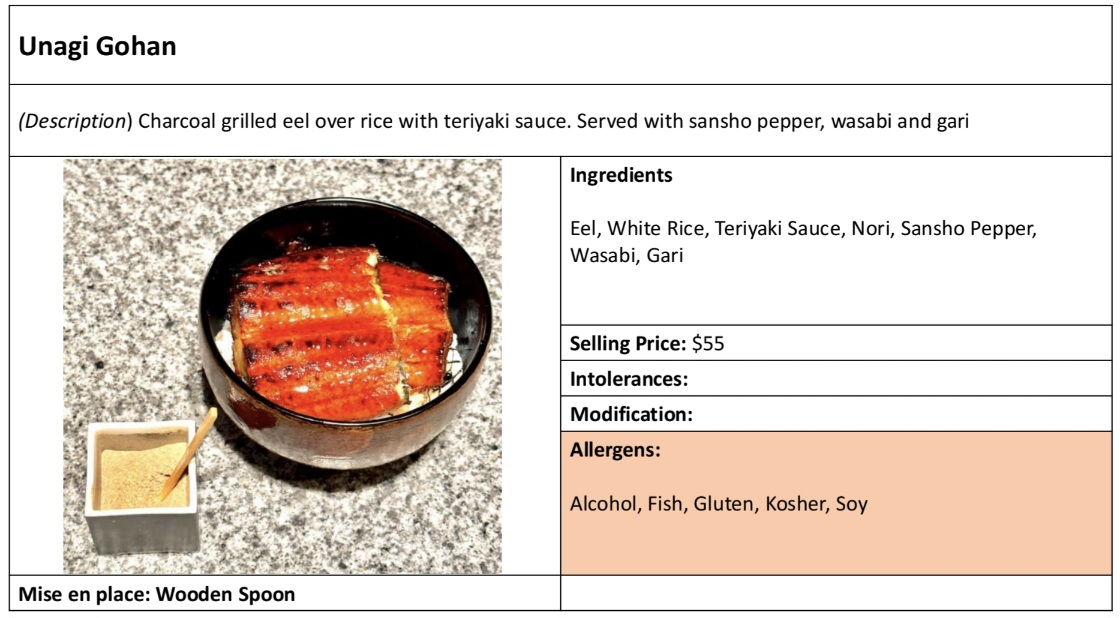
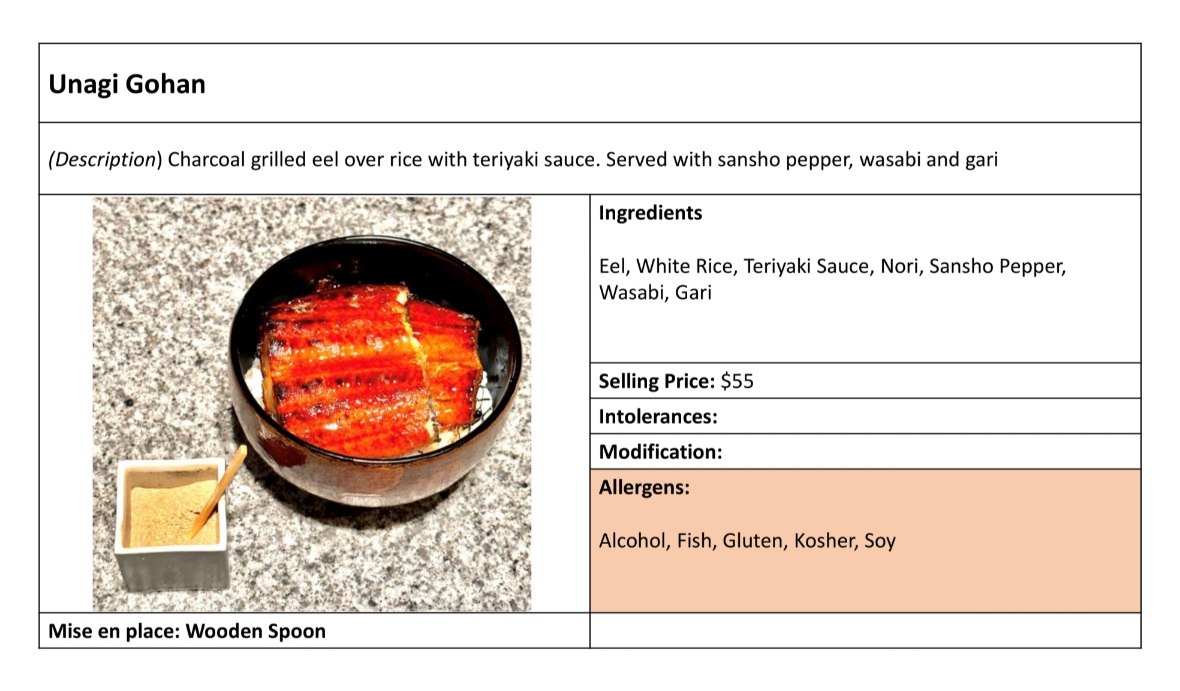
update pic: unagi gohan

diff --git a/app/manager/page.jsx b/app/manager/page.jsx
@@ -3348,7 +3348,7 @@ export default function ManagerDinnerPage() {
           <div className='modal-content'>
           
           <div>
-            <img src='unagi-gohan.jpg' />
+            <img src={`unagi-gohan.jpg?v={Date.now()}`} />
           </div>
           <div className='modal-text'>
                           

diff --git a/app/page.jsx b/app/page.jsx
@@ -3423,7 +3423,7 @@ appetizers, seasonal plates, and dessert.
           <div className='modal-content'>
           
           <div>
-            <img src='unagi-gohan.jpg' />
+            <img src={`unagi-gohan.jpg?v={Date.now()}`} />
           </div>
           <div className='modal-text'>
                           
